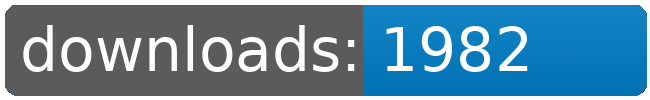
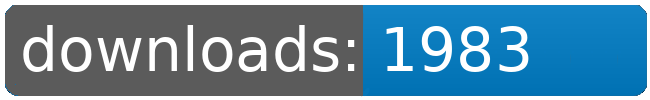
dl log written

Changed region(s): [[0.7692, 0.42, 0.8308, 0.72], [0.7692, 0.27, 0.8308, 0.39]]

diff --git a/README.md b/README.md
@@ -21,8 +21,8 @@
 		<td>1925</td>
 		<td>1950</td>
 		<td>1976</td>
-		<td>1982</td>
-		<td>+ 6</td>
+		<td>1983</td>
+		<td>+ 7</td>
 	</tr>
 	<tr>
 		<td>Factory.Outlets</td>
@@ -109,8 +109,8 @@
 		<td></td>
 		<td></td>
 		<td></td>
-		<td>16231</td>
-		<td>27</td>
+		<td>16232</td>
+		<td>28</td>
 	</tr>
 </table>
 </sub></sup>
@@ -157,8 +157,8 @@
 		<td>1925</td>
 		<td>1950</td>
 		<td>1976</td>
-		<td>1982</td>
-		<td>+ 6</td>
+		<td>1983</td>
+		<td>+ 7</td>
 	</tr>
 	<tr>
 		<td>Korunak.Defense.Drones</td>
@@ -223,8 +223,8 @@
 		<td></td>
 		<td></td>
 		<td></td>
-		<td>16231</td>
-		<td>27</td>
+		<td>16232</td>
+		<td>28</td>
 	</tr>
 </table>
 </sub></sup>
